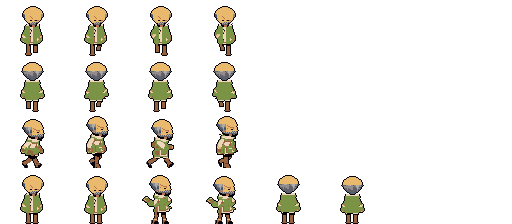
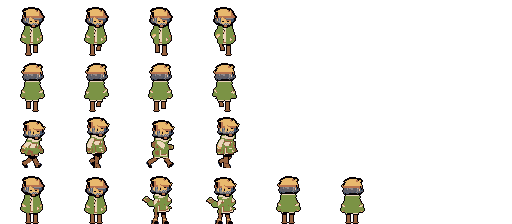
NPC: kepala dari kepala MC yang rambutnya disunting (gaya MC tetap), tudung & helm mengikuti siluet rambut
Claude-Session: https://claude.ai/code/session_013SaXTJuwinpA9vu4txrWbT

diff --git a/tools/npc_hair_art.py b/tools/npc_hair_art.py
@@ -1,0 +1,176 @@
+"""Kepala NPC = kepala tokoh utama (dibaca dari hero_mc2.png) yang rambutnya disunting dengan tambalan piksel buatan tangan.
+Jadi gaya gambar (garis, helai, bayangan kebiruan, wajah) tetap gaya MC, tapi bentuk rambut berbeda.
+Grid: x 20..45, y 0..33 sel 64×56 frame diam. Huruf: F garis, 1–4 rambut terang→gelap, s kulit, k bayangan kulit,
+m mulut, E syal MC (dibuang), . kosong.  Tambalan: '.' = biarkan, '_' = hapus, huruf lain = timpa."""
+import numpy as np
+from PIL import Image
+
+MC = 'godot/assets/art/hero/hero_mc2.png'
+X0, Y0, GW, GH = 20, 0, 26, 34
+IDLE = {'d': (0, 0), 's': (0, 4), 'u': (0, 2)}
+CODE = {(6, 1, 5): 'F', (84, 25, 32): 'E', (163, 41, 28): 'E', (166, 171, 64): '1', (120, 139, 79): '2', (67, 85, 109): '3',
+        (48, 52, 88): '4', (233, 185, 110): 's', (183, 115, 79): 'k', (112, 59, 46): 'k', (236, 206, 172): 'm', (145, 96, 80): 'k'}
+CHIN = {'d': 25, 's': 24, 'u': 24}
+
+
+def mc_grid(f):
+    A = np.array(Image.open(MC).convert('RGBA'))
+    c, r = IDLE[f]
+    a = A[r * 56:(r + 1) * 56, c * 64:(c + 1) * 64]
+    g = []
+    for y in range(Y0, Y0 + GH):
+        row = ''
+        for x in range(X0, X0 + GW):
+            row += '.' if a[y, x, 3] == 0 or y > CHIN[f] else CODE.get(tuple(a[y, x, :3]), 'F')
+        g.append(list(row))
+    return g
+
+
+def patch(g, y, txt):
+    for i, ch in enumerate(txt[:GW]):
+        if ch == '.':
+            continue
+        g[y][i] = '.' if ch == '_' else ch
+
+
+def clean_scarf(g, f):
+    """Syal MC (E) di sekitar kepala → rambut/garis/kulit."""
+    for y in range(GH):
+        for x in range(GW):
+            if g[y][x] == 'E':
+                g[y][x] = 'F' if y < 18 and f != 'u' else ('k' if y >= CHIN[f] - 1 else '3')
+
+
+CROWN_ROUND = {
+    'd': [(8, '__________'), (9, '_______FFFFFFF__'), (10, '_____FF1111111FF')],
+    's': [(8, '__________'), (9, '_______FFFFFFF__'), (10, '_____FF1111111FF')],
+    'u': [(8, '___________________________'), (9, '________FFFFFFF__F_'), (10, '______FF1111111FFF___')],
+}
+BANGS = {
+    'rata': {
+        'd': [(17, '...44F211111211111122222F.'), (18, '...44F222222222222222333F.'),
+              (19, '...F44333333333333333344F.'), (20, '..F33s4kkkkkkkkkkkkkk444F.'), (21, '..F33s4ssssssssssssss44F..')],
+        's': [(16, '....F4321112111112222F3...'), (17, '....F4322222222222233F....'),
+              (18, '....F43333333333333F......'), (19, '....F44k3kkkkkkkkkkF......')],
+    },
+    'belah': {
+        'd': [(16, '...4FF211113FF3111223222F.'), (17, '...4FF21113ssss3112233F...'),
+              (18, '...44F2113ssssss311333F...'), (19, '...F4k413ssssssss3224F....'), (20, '..F33s42ssssssssss3444F...'),
+              (21, '..F33s42ssssssssssss44F...')],
+        's': [(16, '....F432111113kk3222F3....'), (17, '....F43211113sssss33F.....'), (18, '....F4321113ssssssF.......')],
+    },
+}
+
+
+def long_hair(g, f):
+    """Rambut terurai sampai punggung: helai tegak (terang dekat wajah, gelap di luar), ujung meruncing."""
+    def curtain(x0, w, y0, y1, flip=False):
+        pat = ('F2334F', 'F2343F', 'F3234F')
+        for y in range(y0, y1 + 1):
+            row = pat[y % 3][:w] if not flip else pat[y % 3][:w][::-1]
+            row = row[:-1] + 'F'
+            if flip:
+                row = 'F' + row[1:]
+            if y == y1:
+                row = '.' + 'F' * (w - 2) + '.'
+            elif y == y1 - 1:
+                row = 'F' + row[1:-1].replace('2', '3') + 'F'
+            for k, ch in enumerate(row):
+                if ch != '.' and (g[y][x0 + k] in '.F34' or y > CHIN[f]):
+                    g[y][x0 + k] = ch
+    if f == 'd':
+        curtain(1, 5, 19, 31, flip=True)
+        curtain(19, 5, 19, 31)
+    elif f == 's':
+        curtain(1, 6, 16, 31, flip=True)
+    else:
+        for y in range(19, 32):
+            for x in range(3, 22):
+                if y == 31:
+                    g[y][x] = 'F' if 4 <= x <= 20 else '.'
+                elif x in (3, 21):
+                    g[y][x] = 'F'
+                else:
+                    g[y][x] = '4' if (x + (y // 4)) % 4 == 0 else ('3' if y > 22 else g[y][x] if g[y][x] in '1234' else '3')
+
+
+def bun(g, f):
+    art = ['...FFFFF...', '..F11211F..', '.F1121112F.', '.F2111123F.', '..F23334F..', '...FFFFF...']
+    x0, y0 = (8, 5) if f != 's' else (2, 8)
+    for i, row in enumerate(art):
+        for j, ch in enumerate(row):
+            if ch != '.' and g[y0 + i][x0 + j] in '.F':
+                g[y0 + i][x0 + j] = ch
+
+
+def ponytail(g, f):
+    art = ['FF...', 'F2FF.', 'F223F', 'F233F', 'F234F', '.F34F', '.F34F', '.F44F', '..FF.']
+    if f == 'd':
+        x0, y0 = 21, 12
+    elif f == 's':
+        x0, y0 = 0, 11
+        art = [r[::-1] for r in art]
+    else:
+        x0, y0 = 11, 18
+        art = ['F22F', 'F23F', 'F34F', 'F34F', 'F34F', 'F44F', '.FF.']
+    for i, row in enumerate(art):
+        for j, ch in enumerate(row):
+            if ch != '.' and g[y0 + i][x0 + j] == '.':
+                g[y0 + i][x0 + j] = ch
+
+
+def bald(g, f):
+    for y in range(GH):
+        for x in range(GW):
+            c = g[y][x]
+            if c in '1234' and y < 19:
+                g[y][x] = 'k' if (y >= 17 or (f == 'd' and x > 18) or (f == 's' and x < 8)) else 's'
+    for y in range(0, 10):
+        g[y] = ['.'] * GW
+    dome = {'d': [(9, '........FFFFFFF'), (10, '......FFsssssssFF'), (11, '....FFsssssssssskF'), (12, '...Fsssssssssssskk')],
+            's': [(9, '........FFFFFFF'), (10, '......FFssssssssFF'), (11, '....FFssssssssskkF'), (12, '...Fssssssssssssk')],
+            'u': [(9, '.........FFFFFFF'), (10, '.......FFssssssssFF'), (11, '.....FFssssssssskkF'), (12, '....Fssssssssssskk')]}[f]
+    for y, t in dome:
+        patch(g, y, t)
+
+
+def buzz(g, f):
+    for y in range(GH):
+        for x in range(GW):
+            if g[y][x] in '1234':
+                if y >= 17 and f != 'u' and 7 <= x <= 19:
+                    g[y][x] = 's'
+                else:
+                    g[y][x] = '2' if y < 13 else '3'
+    for y in range(0, 10):
+        g[y] = ['.'] * GW
+    patch(g, 9, '........FFFFFFF')
+    patch(g, 10, '......FF2222222FF')
+
+
+STYLES = ('mc', 'bulat', 'rata', 'belah', 'panjang', 'kuncir', 'sanggul', 'cepak', 'botak')
+
+
+def head_grid(style, f):
+    g = mc_grid(f)
+    clean_scarf(g, f)
+    if style in ('bulat', 'rata', 'belah', 'panjang', 'kuncir', 'sanggul'):
+        for y, t in CROWN_ROUND[f]:
+            patch(g, y, t)
+    if style in ('rata', 'panjang') and f in BANGS['rata']:
+        for y, t in BANGS['rata'][f]:
+            patch(g, y, t)
+    if style in ('belah', 'sanggul') and f in BANGS['belah']:
+        for y, t in BANGS['belah'][f]:
+            patch(g, y, t)
+    if style == 'panjang':
+        long_hair(g, f)
+    if style == 'kuncir':
+        ponytail(g, f)
+    if style == 'sanggul':
+        bun(g, f)
+    if style == 'botak':
+        bald(g, f)
+    if style == 'cepak':
+        buzz(g, f)
+    return g

diff --git a/tools/npc_heads.py b/tools/npc_heads.py
@@ -2,6 +2,7 @@
 Kepala MC kaku (hanya bergeser per frame), jadi posisinya dicari dengan mencocokkan kepala frame diam, lalu kepala baru
 digambar di posisi yang sama. Dipakai oleh tools/npc_from_mc.py."""
 import numpy as np
+import npc_hair_art as HA
 from PIL import Image
 
 MC = 'godot/assets/art/hero/hero_mc2.png'
@@ -13,8 +14,8 @@ SKIN = {  # warna kulit (terang, bayangan)
 }
 # geometri kepala baru pada frame diam tiap arah (koordinat sel 64×56)
 GEO = {
-    'd': dict(cx=33.0, cy=16.8, rx=10.2, ry=8.6, chin=25, eyes=[(31, 21), (36, 21)], mouth=(34, 24), idle=(0, 0)),
-    's': dict(cx=32.0, cy=16.5, rx=9.6, ry=8.4, chin=24, eyes=[(37, 20)], mouth=(39, 23), idle=(0, 4)),
+    'd': dict(cx=33.0, cy=16.8, rx=10.2, ry=8.6, chin=25, eyes=[(31, 22), (36, 22)], mouth=(34, 25), idle=(0, 0)),
+    's': dict(cx=32.0, cy=16.5, rx=9.6, ry=8.4, chin=24, eyes=[(37, 19)], mouth=(36, 23), idle=(0, 4)),
     'u': dict(cx=32.5, cy=16.5, rx=10.0, ry=8.4, chin=24, eyes=[], mouth=None, idle=(0, 2)),
 }
 HEAD_ROWS = (6, 25)
@@ -203,6 +204,29 @@ def build_head(o, facing):
     if o.get('mata', 'titik') == 'titik':
         out[eyes_mc] = BLK
     under = np.zeros_like(face)
+    # --- kepala dari grid MC yang rambutnya disunting (npc_hair_art) — menimpa bentuk prosedural di atas ---
+    MAPST = {'poni': 'rata', 'jabrik': 'mc', 'keriting': 'bulat'}
+    gs = HA.head_grid(MAPST.get(st, st), facing)
+    out = np.zeros((H, W, 4), np.uint8)
+    hair = np.zeros((H, W), bool); face = np.zeros((H, W), bool)
+    for gy, row in enumerate(gs):
+        for gx, ch in enumerate(row):
+            X, Y = HA.X0 + gx, HA.Y0 + gy
+            if ch == 'F':
+                out[Y, X] = BLK
+            elif ch in '1234':
+                out[Y, X] = ramp[int(ch) - 1]; hair[Y, X] = True
+            elif ch == 's':
+                out[Y, X] = sk; face[Y, X] = True
+            elif ch == 'k':
+                out[Y, X] = sks; face[Y, X] = True
+            elif ch == 'm':
+                out[Y, X] = (236, 206, 172, 255); face[Y, X] = True
+    if o.get('mata', 'titik') != 'titik' and facing != 'u':
+        for ex, ey in g['eyes']:
+            for y in (ey, ey + 1):
+                if (out[y, ex] == BLK).all():
+                    out[y, ex] = sk
     # wajah: mata, alis, mulut
     eyes_st = o.get('mata', 'titik')
     if facing != 'u':
@@ -278,28 +302,30 @@ def build_head(o, facing):
                 out[y, int(cx - 6):int(cx + 8)] = dark
             elif facing == 's':
                 out[y, int(cx):int(cx + rx + 5)] = dark
-        elif kind == 'tudung':
-            big = np.vectorize(lambda x, y: ell(x, y, cx, cy, rx + 1.6, ry + 1.4))(xx, yy) & (yy <= chin + 3)
-            if facing == 'd':
-                hole = (yy >= 17) & (abs(xx + 0.5 - cx) < rx - 2.0) & (yy <= chin)
-            elif facing == 's':
-                hole = (yy >= 17) & (xx + 0.5 > cx) & (yy <= chin)
-            else:
-                hole = np.zeros_like(big)
-            m = big & ~hole
+        elif kind in ('tudung', 'helm'):
+            # mengikuti siluet rambut MC: rambut diganti kain/logam dengan bayangan yang sama
             hr = [col, np.array((*(col[:3] * 0.86).astype(np.uint8), 255), np.uint8), dark,
                   np.array((*(col[:3] * 0.5).astype(np.uint8), 255), np.uint8)]
-            for y, x in zip(*np.nonzero(m)):
-                out[y, x] = hr[max(0, tfull[y, x])]
-            if facing != 'u':
-                rim = m & nb4(hole)
-                out[rim] = dark
-        elif kind == 'helm':
-            m = np.vectorize(lambda x, y: ell(x, y, cx, cy - 0.5, rx + 0.8, ry + 0.8))(xx, yy) & (yy <= 18)
-            out[m] = col
-            out[m & (xx + 0.5 > cx + 3)] = dark
-            out[m & (yy == 18)] = dark
-            out[m & (yy < cy - 4) & (abs(xx + 0.5 - cx + 2) < 1)] = (237, 214, 187, 255)
+            idx = np.full((H, W), -1, int)
+            for t in range(4):
+                idx[hair & (out[..., :3] == ramp[t][:3]).all(-1)] = t
+            if kind == 'tudung':
+                m = hair.copy()
+                grow = nb4(m) & (out[..., 3] == 0) & (yy <= chin + 3) & (yy > cy - 2)
+                m |= grow
+                idx[grow] = 3
+                for y, x in zip(*np.nonzero(m)):
+                    out[y, x] = hr[max(0, min(3, idx[y, x] + (1 if idx[y, x] == 0 and (x + y) % 5 == 0 else 0)))]
+                if facing != 'u':
+                    out[m & nb4(face)] = hr[2]
+                hair[:] = m
+            else:
+                m = hair & (yy <= (18 if facing != 'u' else 20))
+                for y, x in zip(*np.nonzero(m)):
+                    out[y, x] = hr[0] if idx[y, x] <= 1 else hr[2]
+                out[m & ~np.roll(m, -1, 0)] = hr[3]                       # pinggir helm
+                band = m & (yy < cy - 2) & (abs(xx + 0.5 - (cx - 3)) < 1)  # kilap
+                out[band] = (237, 214, 187, 255)
     # garis tepi hitam
     solid = out[..., 3] > 0
     ring = nb4(solid) & ~solid

diff --git a/tools/npc_from_mc.py b/tools/npc_from_mc.py
@@ -39,10 +39,10 @@ NPC = {
     'smith': dict(rambut=('birutua', 'hitam'), baju=('krem', 'coklat'), sepatu='hitam', celemek='coklat', celana='abutua', gaya_rambut='cepak', mata='sipit', jenggot=True, alis='hitam', kulit='gelap'),
     'tp1':   dict(rambut=('hitam', 'hitam'), baju=('krem', 'abu'), sepatu='coklat', rok='panjang', gaya='selempang', aksen='merah', gaya_rambut='panjang', mata='sipit', alis='rambut'),
     'farmer': dict(rambut=('coklat', 'marun'), baju=('krem', 'abu'), sepatu='coklat', gaya='overall', aksen='biru', celana='biru', gaya_rambut='poni', mata='senyum', topi=('caping', K['kulit']), kulit='sawo', mulut='senyum'),
-    'gun':   dict(rambut=('coklat', 'marun'), baju=('coklat', 'marun'), sepatu='coklat', gaya='rompi', rompi='abutua', celana='abutua', sabuk='hitam', gaya_rambut='jabrik', mata='titik', jenggot=True, topi=('tudung', K['coklat']), alis='hitam'),
-    'hermit': dict(rambut=('mawar', 'marun'), baju=('mawar', 'marun'), sepatu='marun', rok='panjang', sabuk='krem', gaya_rambut='botak', mata='senyum', jenggot=True, keriput=True, topi=('tudung', K['mawar'])),
+    'gun':   dict(rambut=('coklat', 'marun'), baju=('coklat', 'marun'), sepatu='coklat', gaya='rompi', rompi='abutua', celana='abutua', sabuk='hitam', gaya_rambut='jabrik', mata='titik', jenggot=True, topi=('tudung', K['abutua']), alis='hitam'),
+    'hermit': dict(rambut=('mawar', 'marun'), baju=('mawar', 'marun'), sepatu='marun', rok='panjang', sabuk='krem', gaya_rambut='botak', mata='senyum', jenggot=True, keriput=True, topi=('tudung', K['krem'])),
     'lestari': dict(rambut=('oranye', 'merah'), baju=('birutua', 'hitam'), sepatu='hitam', rok='panjang', kerah='krem', gaya='kancing', gaya_rambut='kuncir', mata='titik', alis='rambut', mulut='senyum'),
-    'nila':  dict(rambut=('coklat', 'marun'), baju=('oranye', 'coklat'), sepatu='coklat', rok='pendek', sabuk='coklat', gaya_rambut='keriting', mata='bulat', topi=('tudung', K['coklat']), kulit='gelap', pipi=True),
+    'nila':  dict(rambut=('coklat', 'marun'), baju=('oranye', 'coklat'), sepatu='coklat', rok='pendek', sabuk='coklat', gaya_rambut='keriting', mata='bulat', topi=('tudung', K['biru']), kulit='gelap', pipi=True),
     'ratih': dict(rambut=('abu', 'abutua'), baju=('krem', 'abu'), sepatu='abutua', rok='panjang', gaya='rompi', rompi='mawar', gaya_rambut='sanggul', mata='senyum', keriput=True, mulut='senyum'),
     'mom':   dict(rambut=('coklat', 'marun'), baju=('biru', 'birutua'), sepatu='marun', rok='panjang', celemek='krem', gaya_rambut='sanggul', mata='bulat', pipi=True, mulut='senyum', kulit='sawo'),
     'inn':   dict(rambut=('coklat', 'marun'), baju=('hijau', 'abutua'), sepatu='coklat', celemek='krem', celana='coklat', kerah='krem', gaya_rambut='belah', mata='titik', kumis=True, mulut='senyum'),

diff --git a/AGENTS.md b/AGENTS.md
@@ -40,4 +40,4 @@ Proyek kini berjalan sepenuhnya di **Godot 4.7.2** (`godot/project.godot`, rende
 - **Jembatan (2026-11-27):** 8 jembatan kayu (Danau 1, Hutan 1, Sungai 4, Rawa 1, Salju 1) dari posisi & gambar versi web lama (`tools/bridges/`), ditempel ke gambar tanah oleh `seam_ground.py`, yang juga menulis `godot/core/bridges_data.gd`; `BenuaWorld` menghapus petak air (tabrakan) di bawahnya. Petak air TileMap tak terlihat (air = gambar tanah). Uji: `tests/_probe_bridges.gd`.
 - **Pose merapal (2026-11-27):** `hero_mc2.png` baris 25–27 = cast bawah/atas/samping (samping: badan atas frame jalan bertangan maju di atas kaki diam; bawah/atas: badan naik-turun 1 px). `Player.try_cast_skill` memutar `cast_*` 0,34 dtk (`cast_anim_t` menahan anim diam/jalan). Game Godot belum punya senjata busur, jadi pose busur belum dipakai. Uji: `tests/_probe_cast.gd`.
 - **Palet NPC (2026-11-27):** 35 sprite NPC yang dipakai game disamakan ke palet tokoh utama: 11 warna `CHARACTER_STYLE.md` + abu muda, abu tua, cokelat (keputusan pemilik, untuk uban/zirah/kulit gelap), lalu dibersihkan (`tools/sprite_clean.py`). `python3 tools/npc_palette.py [--preview]`; aslinya di `tools/npc_src/` (sumber tetap, jalankan ulang aman). Tinggi NPC masih beragam (25–47 px).
-- **NPC bertubuh tokoh utama (2026-11-27):** 24 NPC kini memakai lembar `npc_mc_<id>.png` (512×224, sel 64×56) yang dibangun dari tubuh & animasi `hero_mc2.png` dengan badan dicat ulang: potongan baju berbeda per NPC (kemeja, rompi, zirah, selempang, overall, kancing, celemek, rok/jubah, celana, kerah, sabuk, topi, tudung) (`python3 tools/npc_from_mc.py`, atur di dict `NPC`). Kepala MC diganti kepala baru buatan `tools/npc_heads.py` (posisi dicocokkan per frame): `gaya_rambut` = poni | belah | cepak | jabrik | panjang | kuncir | sanggul | keriting | botak; `mata` = titik | sipit | bulat | senyum | kacamata; `alis`, `mulut`, `pipi`, `kumis`, `jenggot`, `keriput`; `kulit` = terang | sawo | gelap; `topi` = caping | topi | tudung | helm. `npc.gd` punya cabang format 512×224.
+- **NPC bertubuh tokoh utama (2026-11-27):** 24 NPC kini memakai lembar `npc_mc_<id>.png` (512×224, sel 64×56) yang dibangun dari tubuh & animasi `hero_mc2.png` dengan badan dicat ulang: potongan baju berbeda per NPC (kemeja, rompi, zirah, selempang, overall, kancing, celemek, rok/jubah, celana, kerah, sabuk, topi, tudung) (`python3 tools/npc_from_mc.py`, atur di dict `NPC`). Kepala = kepala MC yang rambutnya disunting tambalan piksel (`tools/npc_hair_art.py`, gaya: mc, bulat, rata, belah, panjang, kuncir, sanggul, cepak, botak), dipasang per frame oleh `tools/npc_heads.py`; nama lama `gaya_rambut` poni→rata, jabrik→mc, keriting→bulat; `mata` = titik | sipit | bulat | senyum | kacamata; `alis`, `mulut`, `pipi`, `kumis`, `jenggot`, `keriput`; `kulit` = terang | sawo | gelap; `topi` = caping | topi | tudung | helm. `npc.gd` punya cabang format 512×224.
